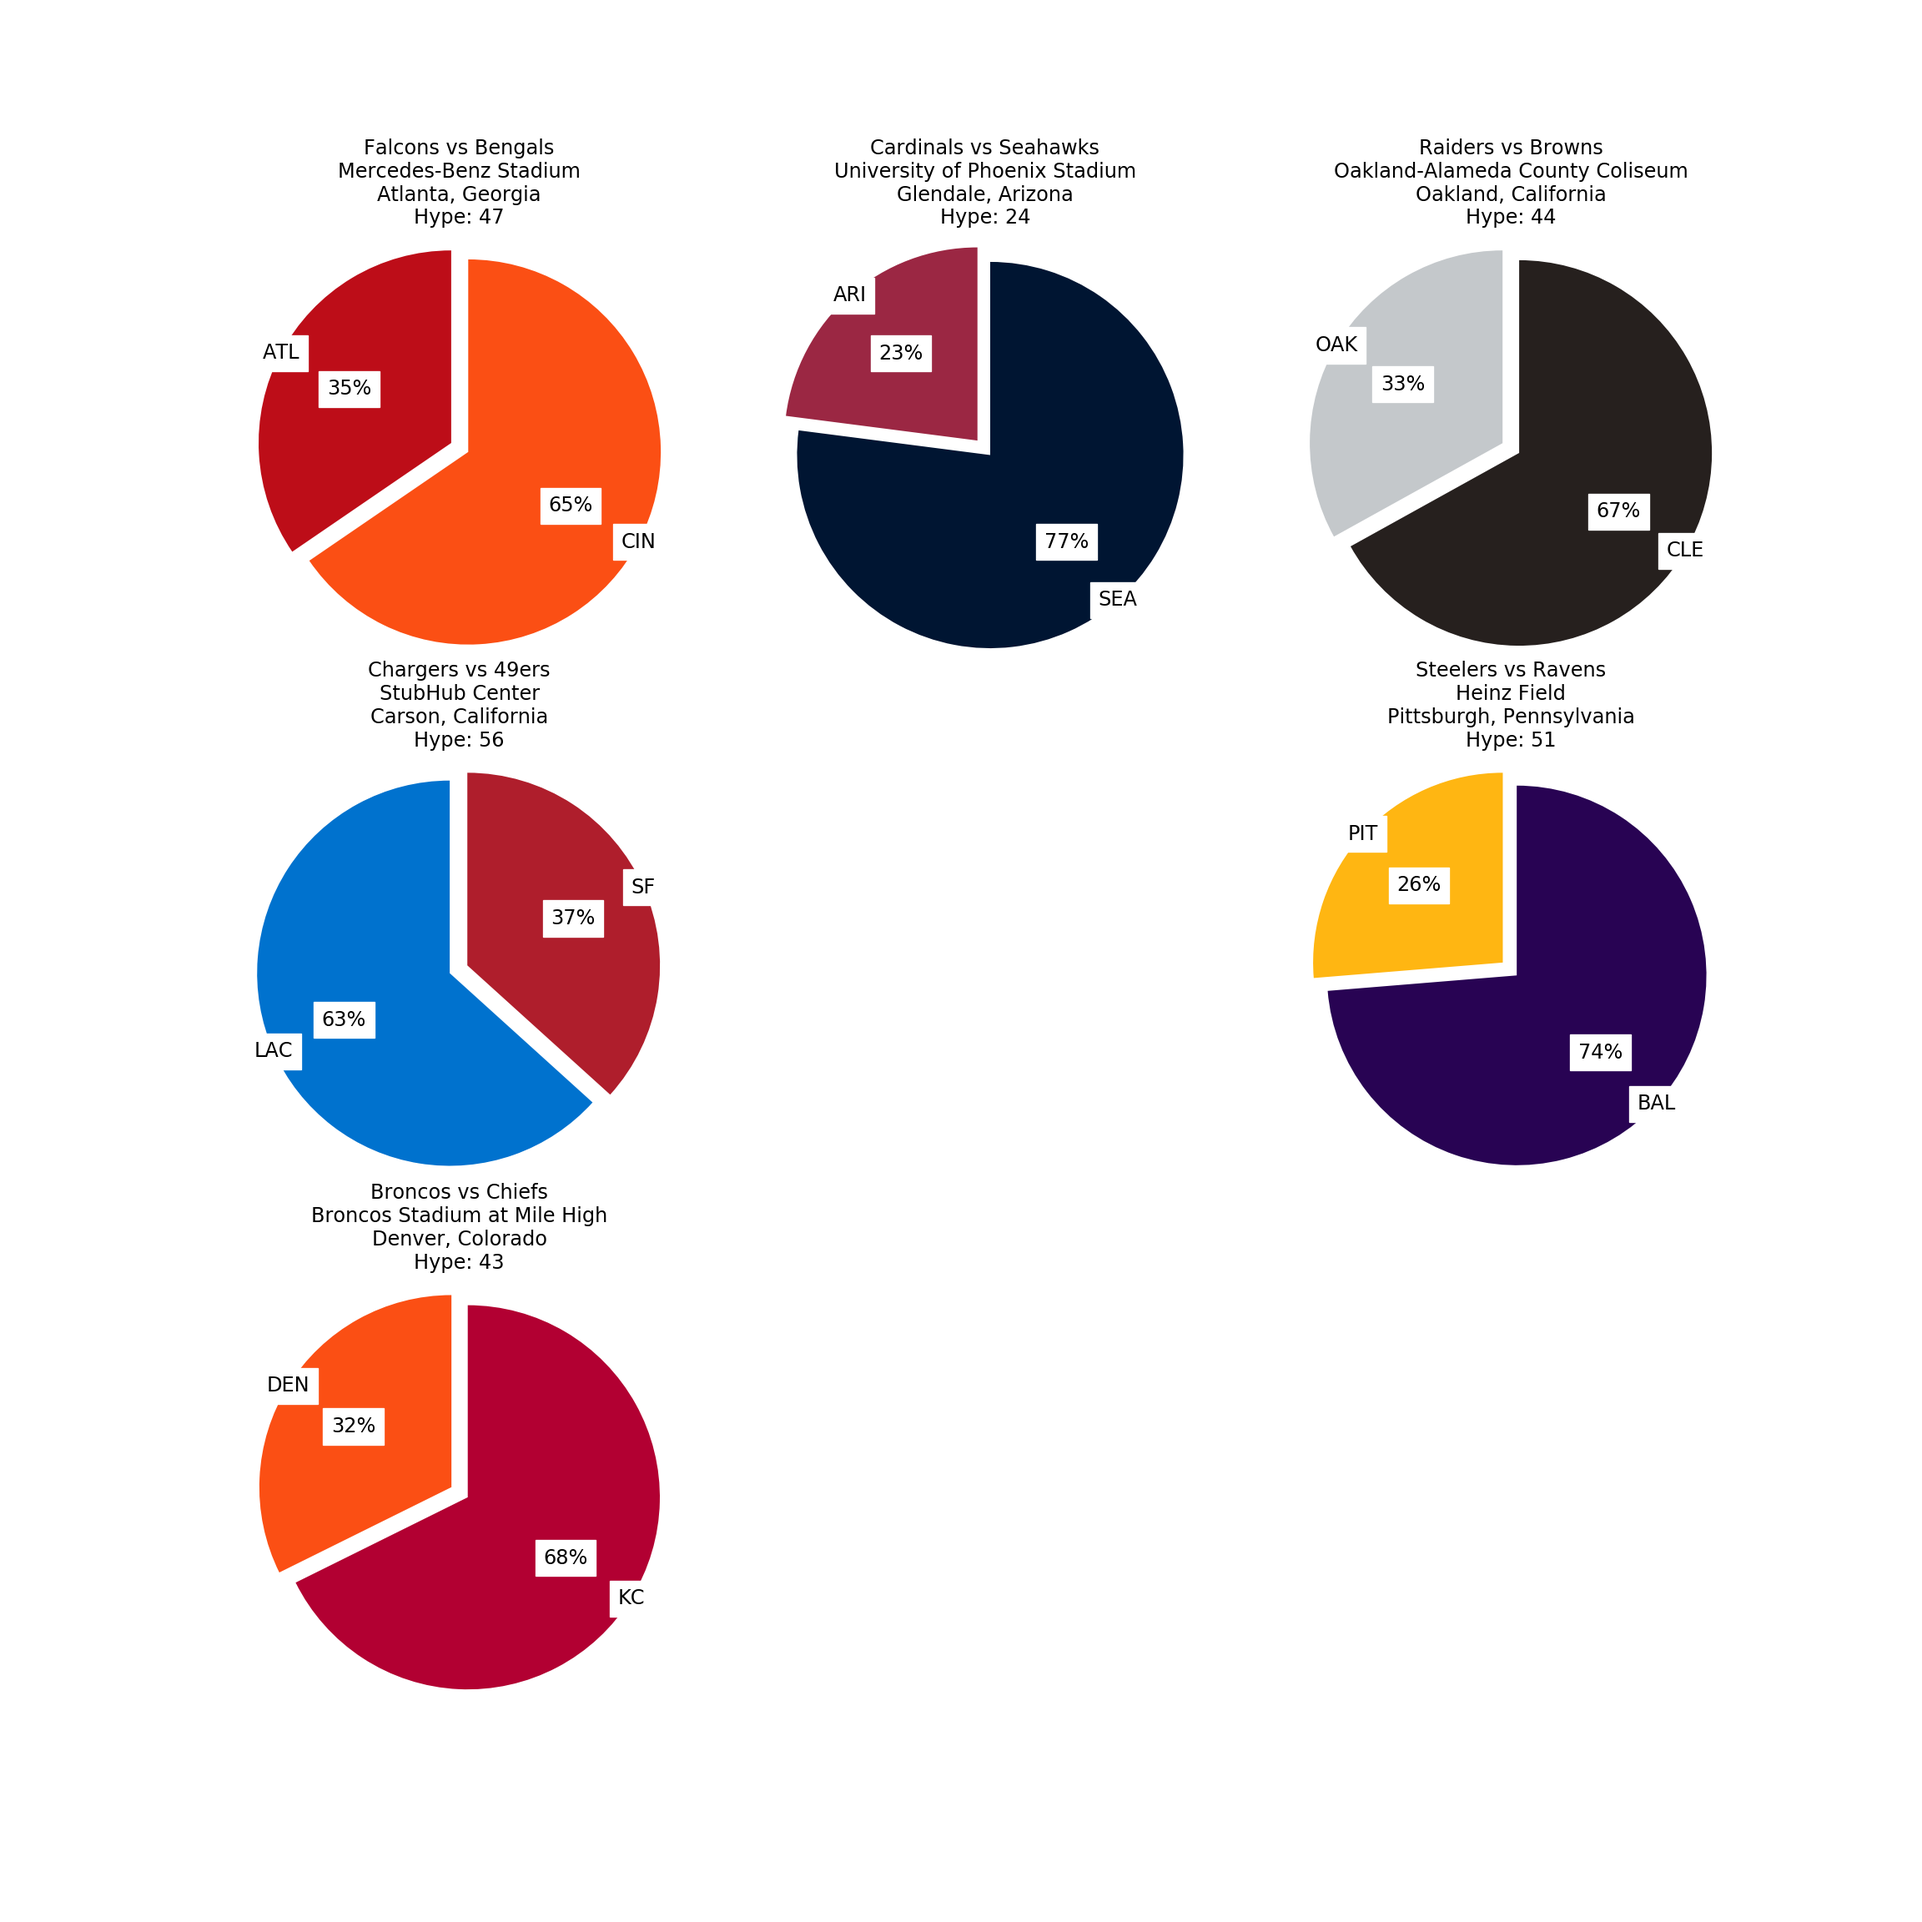
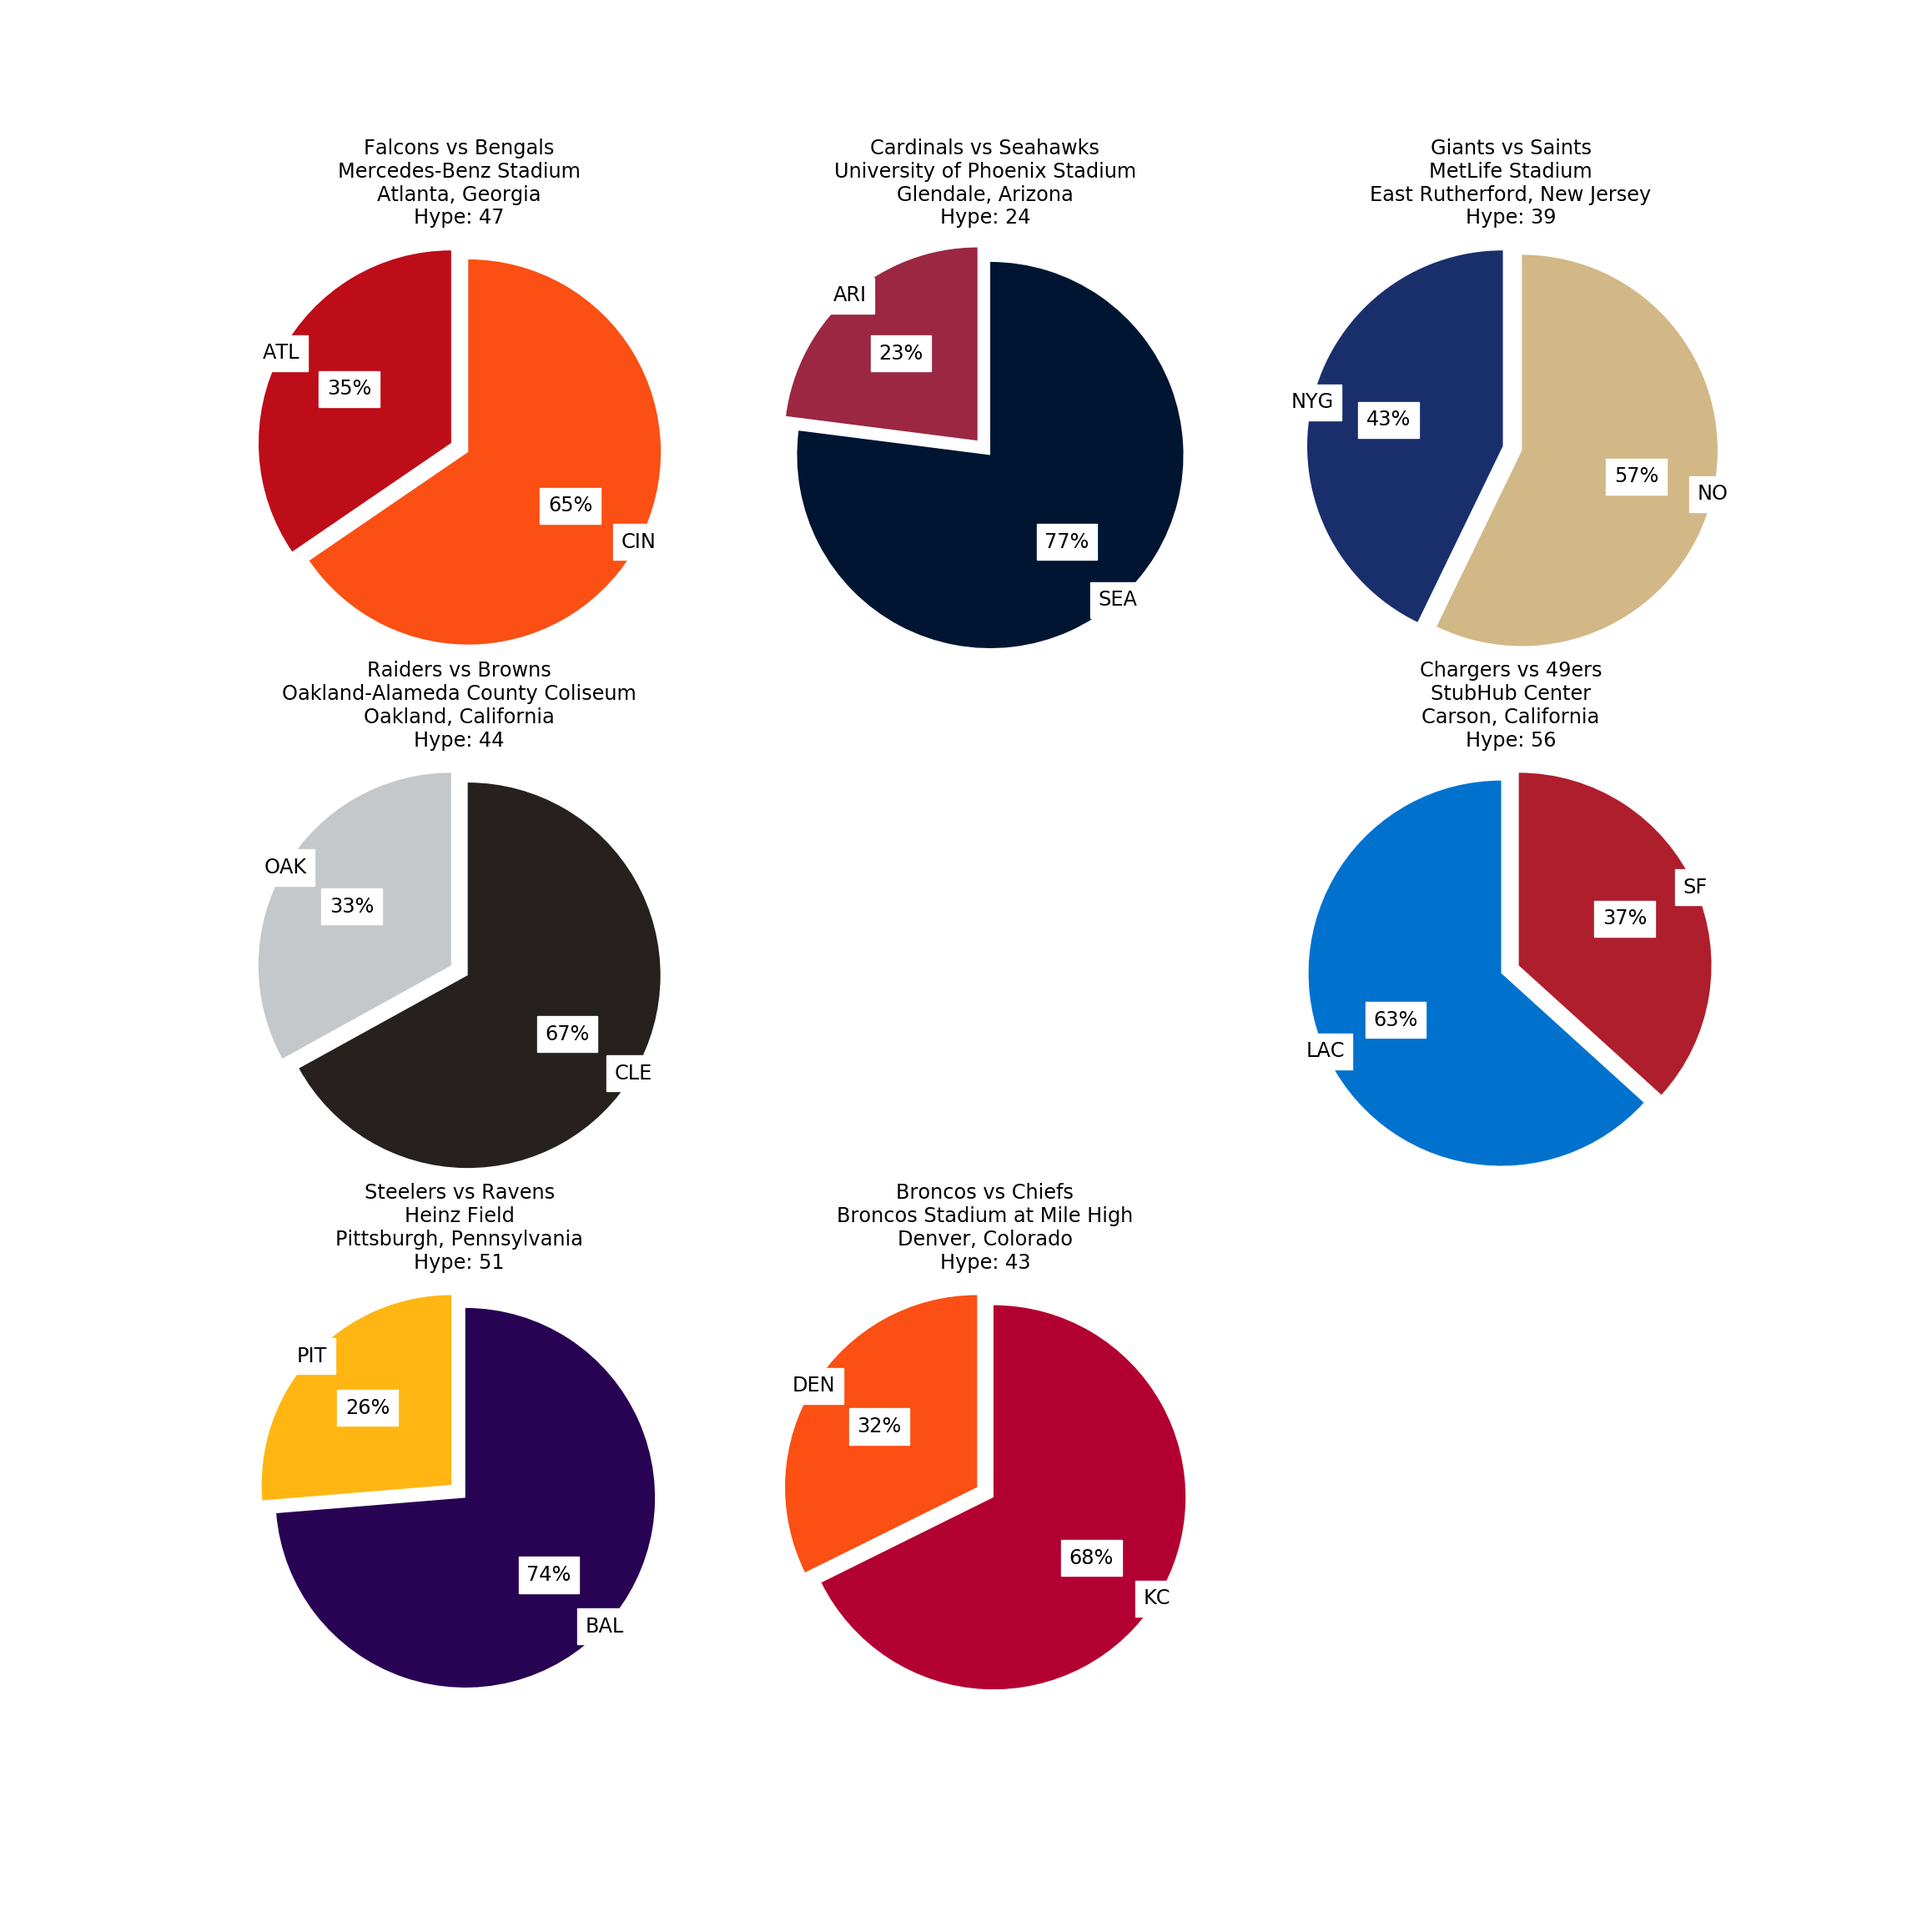
Added 2018 NFL Week 5 forecasts

Changed region(s): [[0.6562, 0.0625, 0.9062, 0.625], [0.125, 0.3438, 0.3438, 0.9062], [0.4062, 0.625, 0.625, 0.9062]]

diff --git a/NFL2018/week.py b/NFL2018/week.py
@@ -14,23 +14,24 @@ import ranking
 
 week_timer = time.time()
 
-week_number = 4
+week_number = 5
 
 matchups = collections.OrderedDict()
-matchups['Thursday Night'] = [('LAR', 'MIN')]
-matchups['Sunday Morning'] = [('JAX', 'NYJ'),
-                              ('NE', 'MIA'),
-                              ('TEN', 'PHI'),
-                              ('IND', 'HOU'),
-                              ('GB', 'BUF'),
-                              ('DAL', 'DET'),
-                              ('CHI', 'TB'),
-                              ('ATL', 'CIN')]
-matchups['Sunday Afternoon'] = [('ARI', 'SEA'),
-                                ('OAK', 'CLE'),
-                                ('LAC', 'SF')]
-matchups['Sunday Night'] = [('PIT', 'BAL')]
-matchups['Monday Night'] = [('DEN', 'KC')]
+matchups['Thursday Night'] = [('NE', 'IND')]
+matchups['Sunday Morning'] = [('BUF', 'TEN'),
+                              ('PIT', 'ATL'),
+                              ('NYJ', 'DEN'),
+                              ('KC', 'JAX'),
+                              ('DET', 'GB'),
+                              ('CLE', 'BAL'),
+                              ('CAR', 'NYG'),
+                              ('CIN', 'MIA')]
+matchups['Sunday Afternoon'] = [('LAC', 'OAK'),
+                                ('SF', 'ARI'),
+                                ('PHI', 'MIN'),
+                                ('SEA', 'LAR')]
+matchups['Sunday Night'] = [('HOU', 'DAL')]
+matchups['Monday Night'] = [('NO', 'WAS')]
 
 def rgb2hex(r, g, b):
     r_hex = hex(r)[-2:].replace('x', '0')

diff --git a/NFL2018/ranking.py b/NFL2018/ranking.py
@@ -22,7 +22,7 @@ def rank(wd, roundno):
         pa[team[:-4]] = np.dot(data[scores_against], scores).mean()
 
     #Create data frame for results
-    results = pd.DataFrame(index = pf.keys(), columns = ['Attack', 'Defense', 'Overall'])
+    results = pd.DataFrame(index = pf.keys(), columns = ['Offense', 'Defense', 'Overall'])
 
     #Calculate each teams residual points for, against, and differential
     for team in os.listdir(wd):
@@ -31,9 +31,9 @@ def rank(wd, roundno):
         data['Against'] = np.dot(data[scores_against], scores)
         data['OppFor'] = data['OPP'].map(pf)
         data['OppAgainst'] = data['OPP'].map(pa)
-        data['Attack'] = data['For'] - data['OppAgainst']
+        data['Offense'] = data['For'] - data['OppAgainst']
         data['Defense'] = data['Against'] - data['OppFor']
-        data['Overall'] = data['Attack'] - data['Defense']
+        data['Overall'] = data['Offense'] - data['Defense']
     
         results.loc[team[:-4]] = data[results.columns].mean() #Add to results table
 
